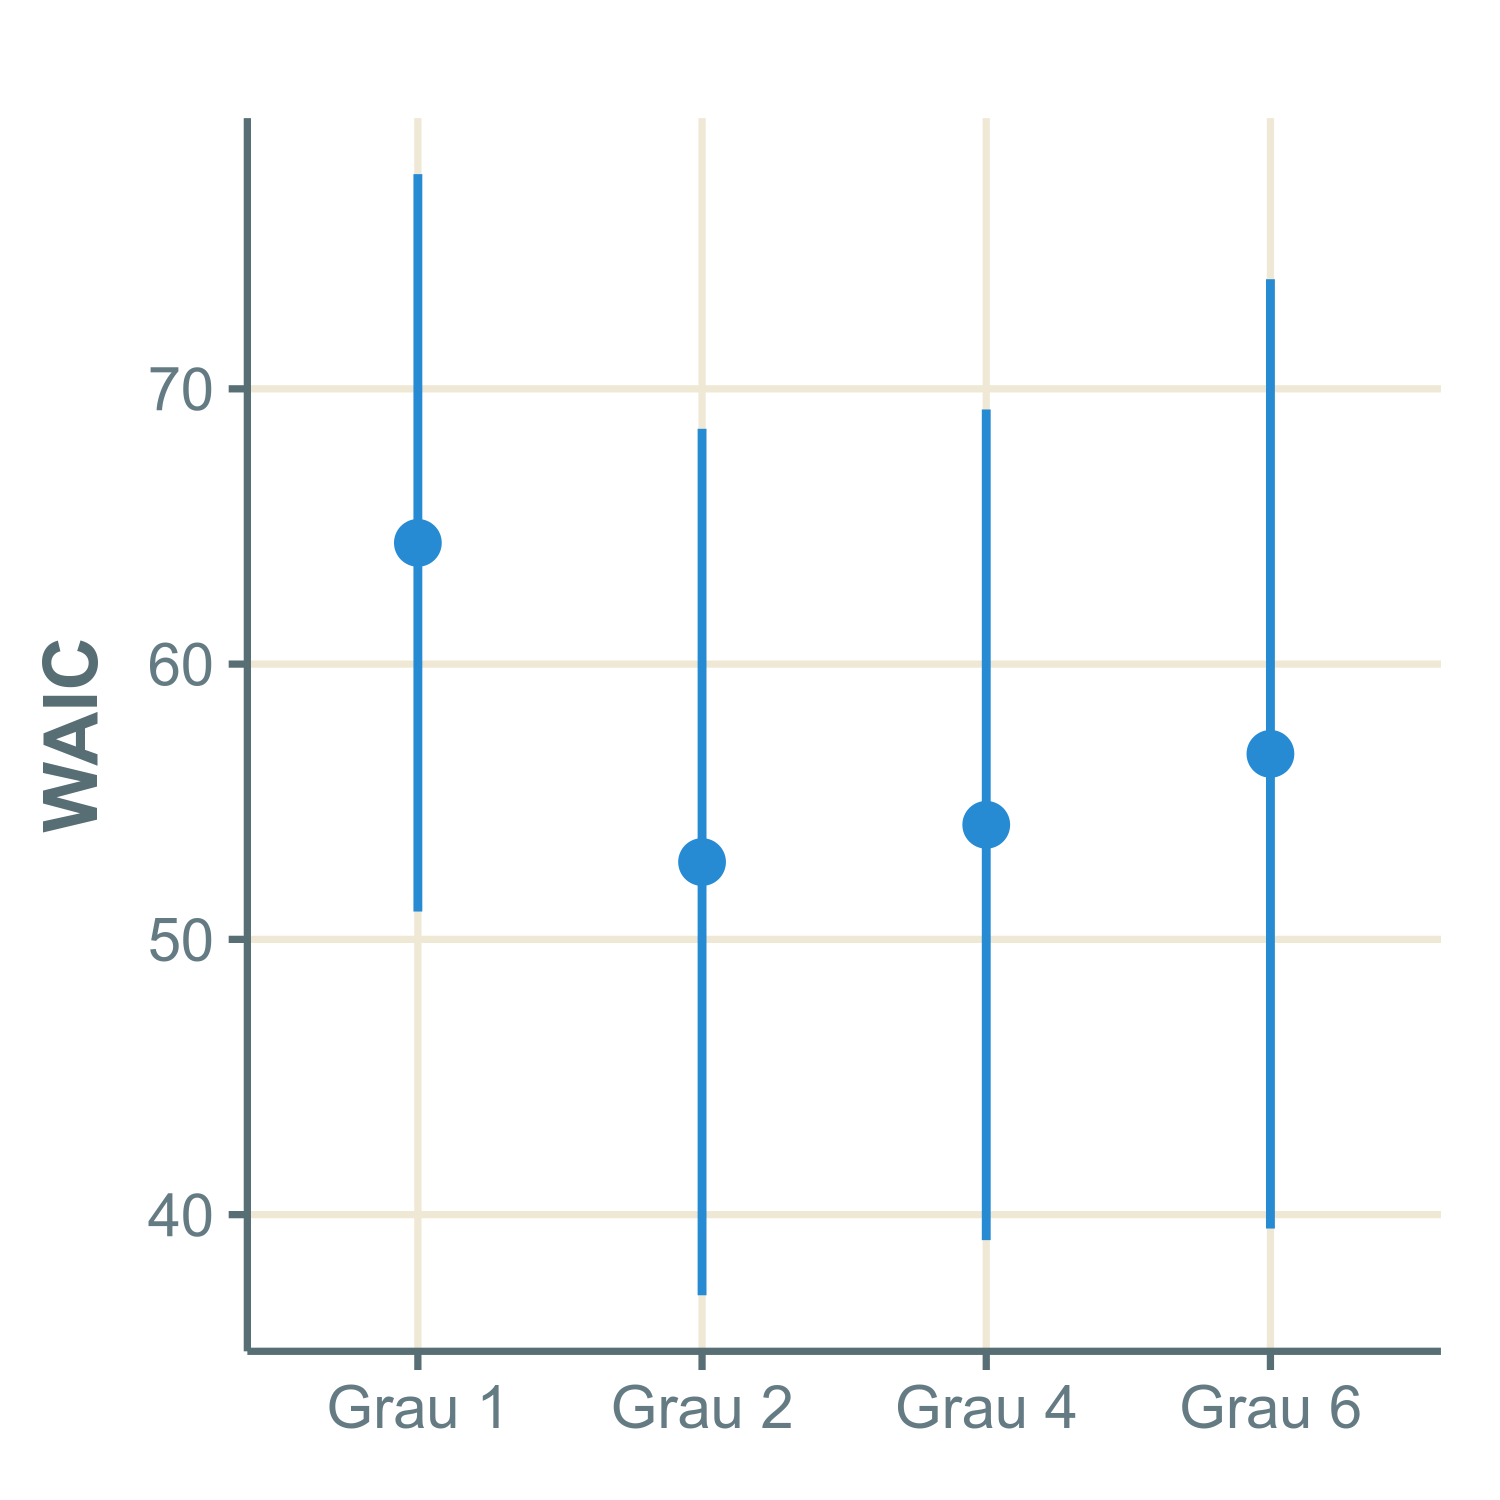
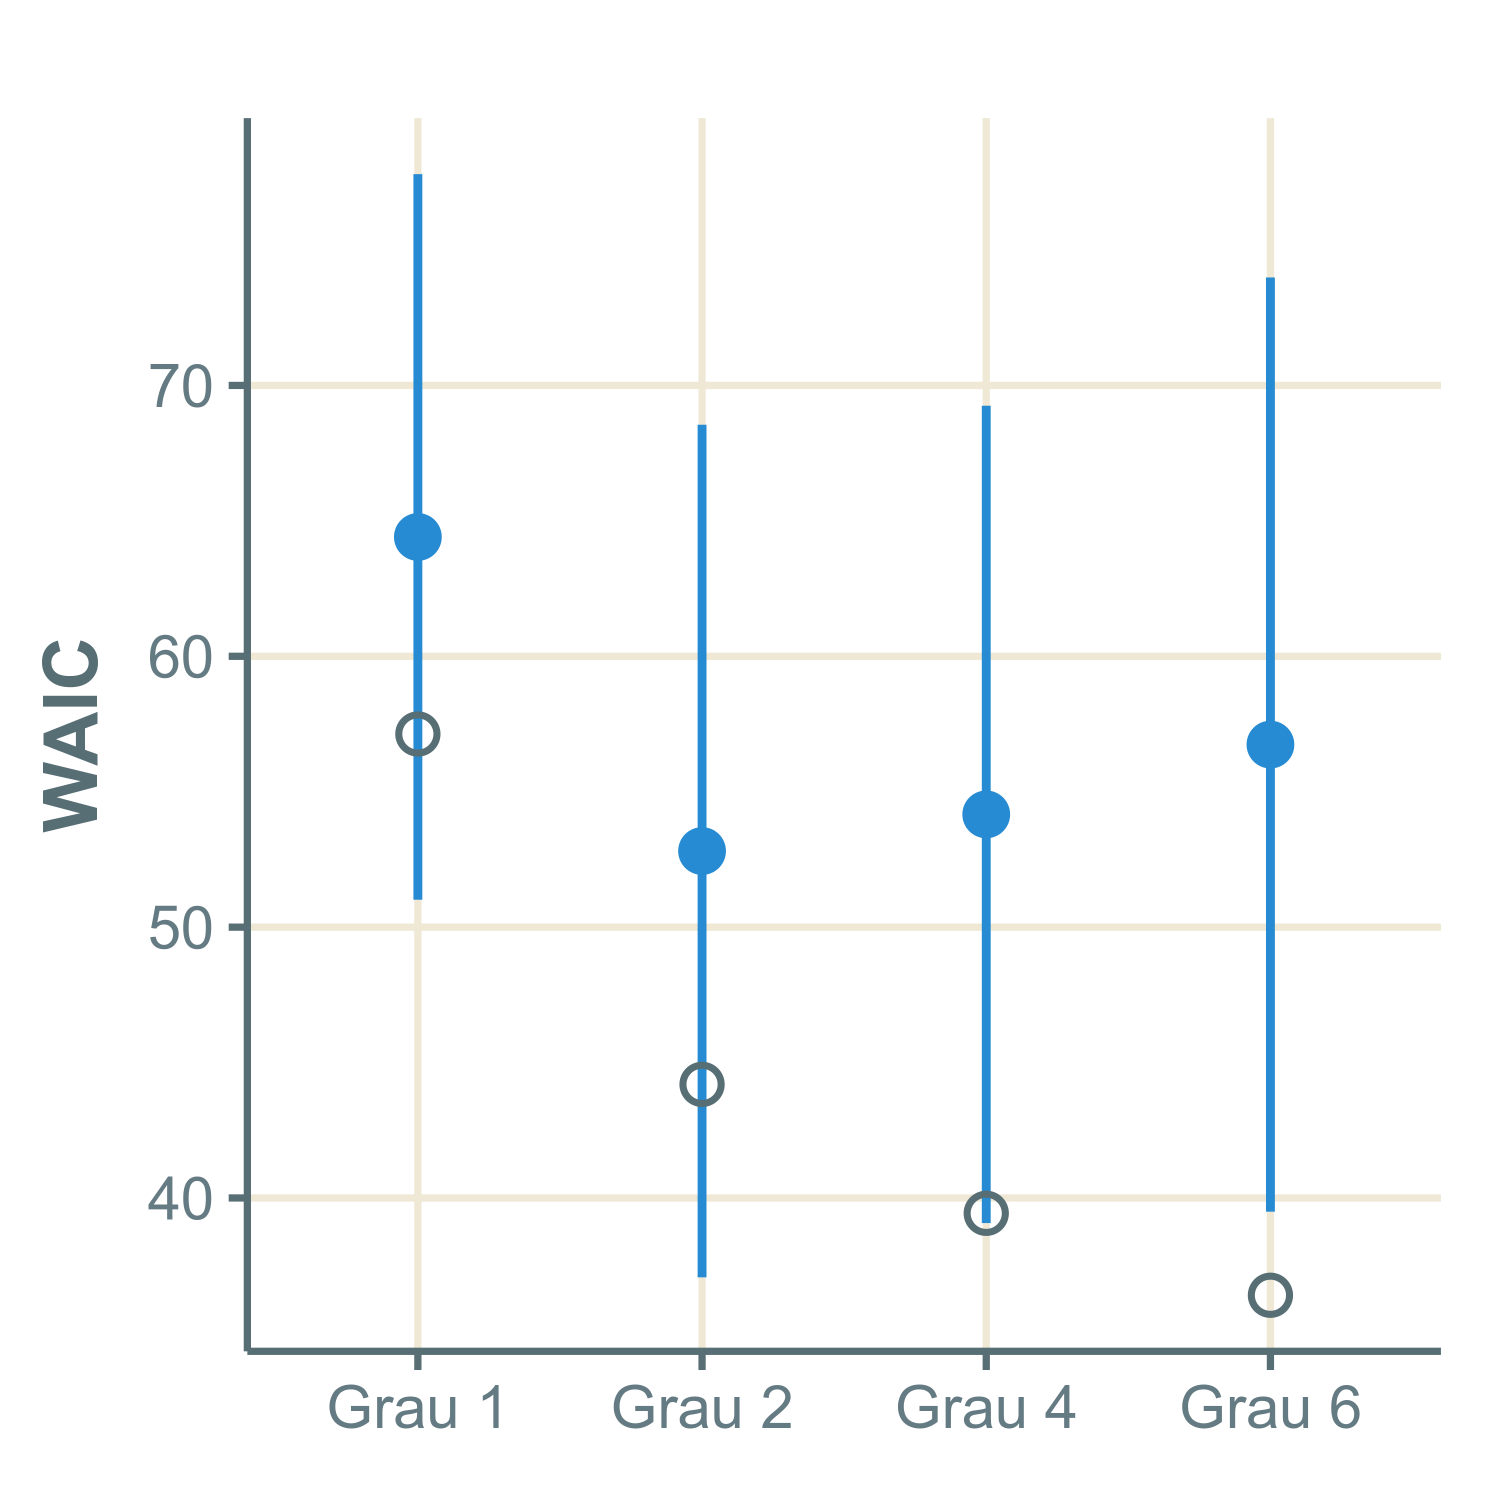
peqs correcoes

diff --git a/Aulas/Aula_08_comparacao_modelos.html b/Aulas/Aula_08_comparacao_modelos.html
@@ -379,9 +379,10 @@ Hirotugu Akaike (1927–2009)
 ]
 
 .pull-right[
-&lt;img src="Aula_08_comparacao_modelos_files/figure-html/grafico-waic-1.png" alt="" width="100%" /&gt;
-
-.right[.f6[Barras: WAIC ± 2 erros padrão.]]
+.center[
+&lt;img src="Aula_08_comparacao_modelos_files/figure-html/grafico-waic-1.png" alt="" width="80%" /&gt;
+]
+.right[.f6[Barras: WAIC ± 2 erros padrão. Pontos vazados: −2 × lppd (sem penalização) ]]
 ]
 
 ---
@@ -476,15 +477,15 @@ modelos não diferem quanto ao poder preditivo.
   importance sampling*) aproxima a LOO usando apenas a posterior do
   ajuste com todos os dados.
 
-* Para cada observação `\(i\)`, cada amostra da posterior recebe um **peso**
-  proporcional a `\(1/p(y_i \mid \Theta_s)\)`: amostras em que `\(y_i\)` é pouco
-  provável representam melhor a posterior sem `\(y_i\)`.
+* Calcula a lppd de cada observação ponderando cada amostra da
+  posterior pela probabilidade atribuída à observação: amostras em que
+  `\(y_i\)` é pouco provável representam melhor a posterior sem `\(y_i\)`.
 
-* Os maiores pesos são suavizados com uma distribuição de Pareto. O
-  parâmetro `\(k\)` dessa distribuição é um **diagnóstico**: `\(k &gt; 0{,}5\)` indica
-  observações muito influentes, e uma aproximação pouco confiável.
+* Os maiores pesos são suavizados com uma distribuição de Pareto, que tem um parâmetro `\(k\)`. 
 
-* Em `compare()`, use `func = PSIS` para comparar pelo PSIS.
+* **Diagnóstico**: `\(k &gt; 0{,}5\)` indica observações muito influentes, e
+  uma aproximação pouco confiável (busque outro método).
+
 ]
 
 .pull-right[
@@ -509,6 +510,7 @@ Some Pareto k values are high (&gt;0.5). Set pointwise=TRUE to inspect individua
 |Grau 2 |      -27,39|     -25,71|     1,15|
 |Grau 4 |      -28,89|     -26,80|     1,11|
 |Grau 6 |      -31,83|     -28,27|     1,20|
+.f7[Na função `compare()`, use o argumento `func = PSIS` para comparar modelos pelo PSIS.]
 ]
 
 ---
